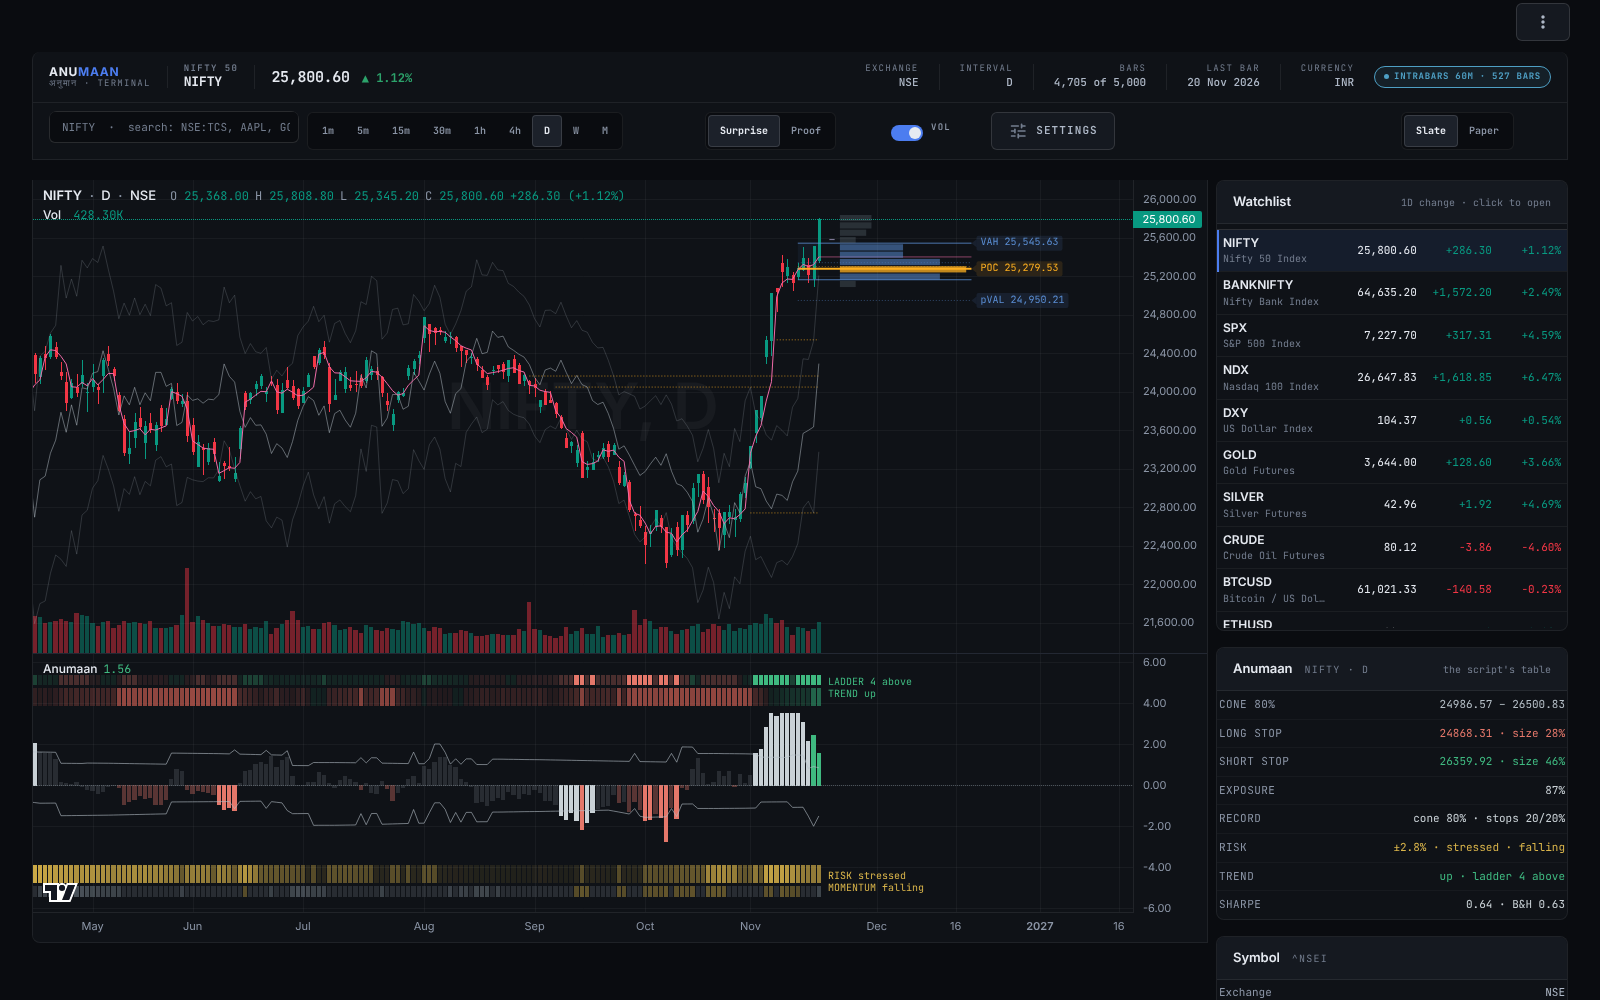
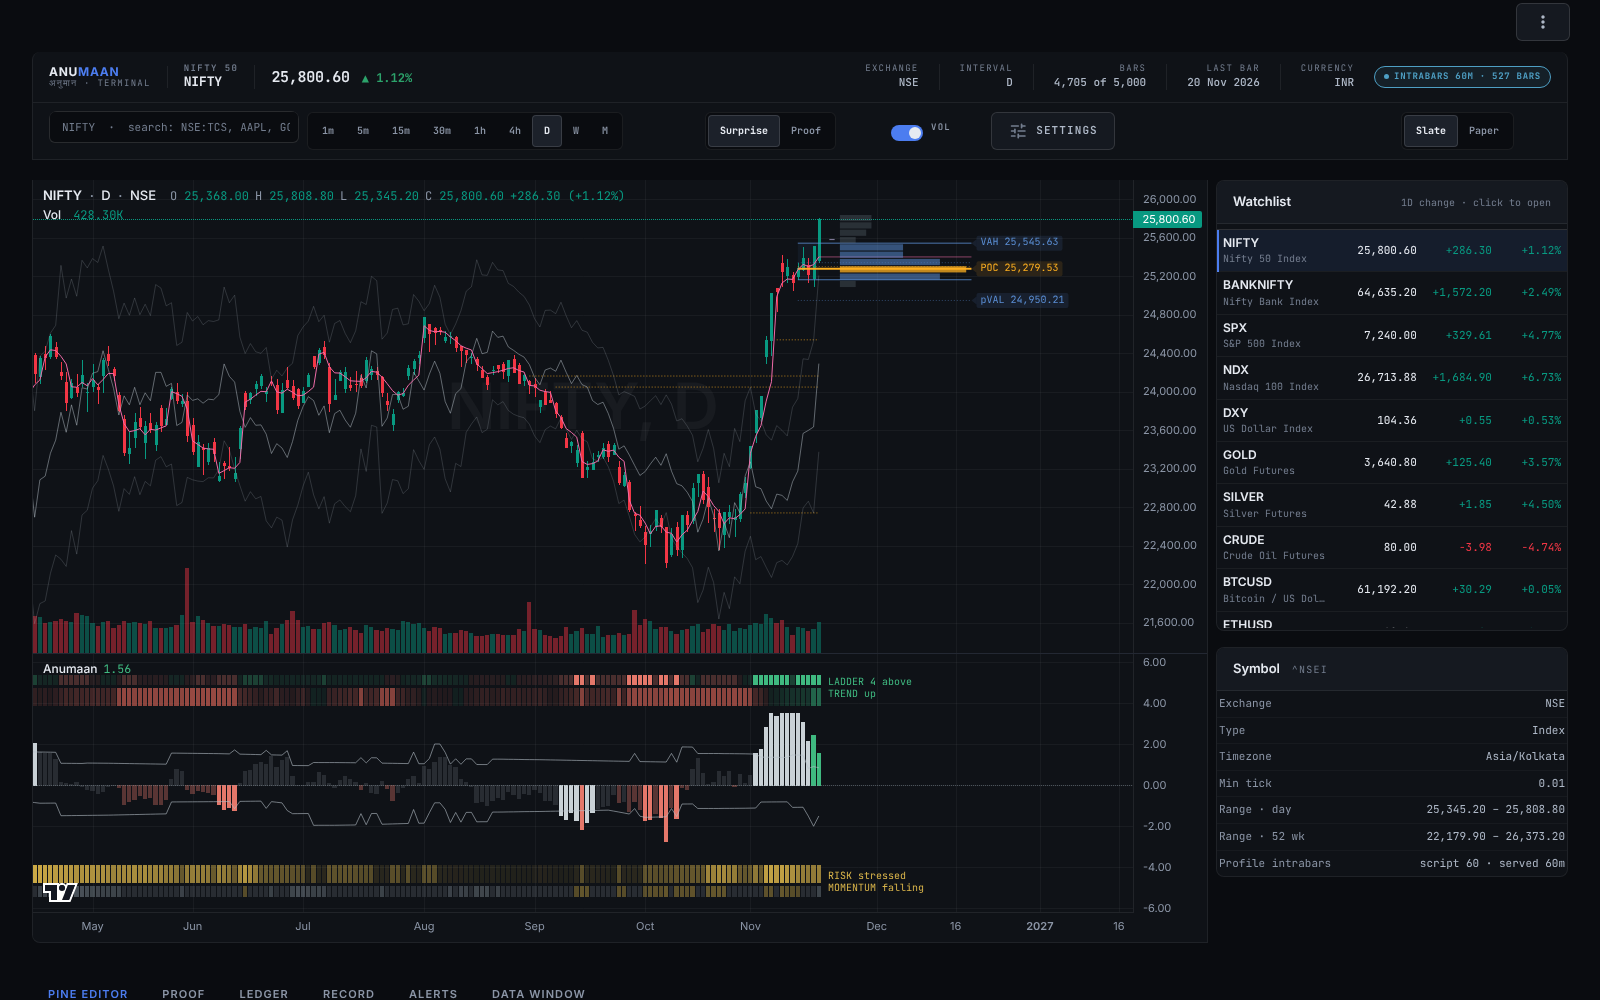
Terminal: drop the script's table from the rail; the Symbol panel moves up
The table is still on the chart (Settings > Display > Table) and its values in the Data Window.

Claude-Session: https://claude.ai/code/session_016ViFoTstK1H2EPMC9V8JSo

diff --git a/terminal/ui/terminal.css b/terminal/ui/terminal.css
@@ -28,11 +28,6 @@ header[data-testid="stHeader"] { height: 0; min-height: 0; background: transpare
 
 /* The rail: panels stacked tight beside the chart. */
 [class*="st-key-panel-"] { margin-bottom: 8px; }
-.readout { font-family: var(--mono); font-size: var(--fs-xs); }
-.readout .ro-row { display: flex; justify-content: space-between; gap: 10px; padding: 5px 2px; border-bottom: 1px solid var(--line-faint); cursor: help; }
-.readout .ro-row:last-child { border-bottom: none; }
-.readout .ro-k { color: var(--ink-tertiary); letter-spacing: 0.04em; white-space: nowrap; }
-.readout .ro-v { text-align: right; font-variant-numeric: tabular-nums; }
 .kv { font-family: var(--mono); font-size: var(--fs-xs); }
 .kv .kv-row { display: flex; justify-content: space-between; gap: 10px; padding: 4px 2px; border-bottom: 1px solid var(--line-faint); }
 .kv .kv-row:last-child { border-bottom: none; }

diff --git a/terminal/app.py b/terminal/app.py
@@ -3,7 +3,7 @@ Anumaan - a terminal for anumaan.pine.
 अनुमान (Anumāna) - "inference: knowing what cannot be seen from what can"
 
 A chart terminal laid out the way a trading terminal is - symbol and interval on the toolbar, the chart with its
-indicator pane, a watchlist and the indicator's readout in the rail, the script's source, its proof, ledger,
+indicator pane, a watchlist and the symbol's details in the rail, the script's source, its proof, ledger,
 calibration record, alert log and data window in the bottom panel - running anumaan.pine ported to Python bar for
 bar, drawn on TradingView's open-source Lightweight Charts library.
 
@@ -247,8 +247,6 @@ with rail:
                     st.rerun()
         else:
             K.note("Quotes unavailable right now.")
-    with K.panel("readout", "Anumaan", context=f"{name} · {ss.tf}", meta="the script's table"):
-        K.readout(rows)
     with K.panel("details", "Symbol", context=ticker):
         hi52 = df.high.iloc[-252:].max() if not intraday else df.high.max()
         lo52 = df.low.iloc[-252:].min() if not intraday else df.low.min()

diff --git a/terminal/ui/components.py b/terminal/ui/components.py
@@ -70,13 +70,6 @@ def kpi_strip(items: list[dict], key: str, max_cols: int = 6) -> None:
                     metric_card(it["label"], it["value"], it.get("subtext", ""), it.get("tone", "neutral"), it.get("tooltip", ""))
 
 
-def readout(rows: list[dict]) -> None:
-    """The script's table, as a rail block: key on the left, value in the script's colour, tooltip on hover."""
-    body = "".join(f'<div class="ro-row" title="{H.escape(r["tip"])}"><span class="ro-k">{H.escape(r["key"])}</span>'
-                   f'<span class="ro-v" style="color:{r["color"]}">{H.escape(r["value"])}</span></div>' for r in rows)
-    st.markdown(f'<div class="readout">{body}</div>', unsafe_allow_html=True)
-
-
 def kv_list(rows: list[tuple[str, str]], cls: str = "kv") -> None:
     body = "".join(f'<div class="kv-row"><span class="kv-k">{H.escape(k)}</span><span class="kv-v">{v}</span></div>' for k, v in rows)
     st.markdown(f'<div class="{cls}">{body}</div>', unsafe_allow_html=True)

diff --git a/terminal/README.md b/terminal/README.md
@@ -17,7 +17,7 @@ streamlit run terminal/app.py
 | **Toolbar** | Symbol search (`NSE:TCS`, `AAPL`, `GC=F`, any Yahoo ticker), interval (1m 5m 15m 30m 1h 4h D W M), the Anumaan pane (Surprise or Proof), volume, **Settings**, and Slate / Paper |
 | **Chart** | Candles and volume, the volume profile with its value area, POC, VWAP, Initial Balance, prior-session and naked-POC levels and their tags, the landing band, midline, stop history, proven-state marks, the forward cone with its stops, and the table. Below it, the Anumaan pane: the surprise columns against the landing band, and the four tapes with their labels. The status lines follow the crosshair |
 | **Watchlist** | Click a row to open it |
-| **Anumaan** | The script's table: cone, stops and size, exposure, record, risk, trend, Sharpe, with the script's tooltips on hover |
+| **Symbol** | Exchange, type, timezone, min tick, the day's and 52-week range, and where the profile's intrabars came from |
 | **Bottom panel** | **Pine Editor** (the script, read only) · **Proof** (the strategy report: exposure against buy and hold) · **Ledger** (the nine states) · **Record** (calibration per rung, per risk regime, per trend state) · **Alerts** (every alert condition as it fired) · **Data Window** |
 
 **Settings** reads its inputs from `anumaan.pine` itself: the same labels, defaults, options, limits, groups and tooltips, all 45 of
